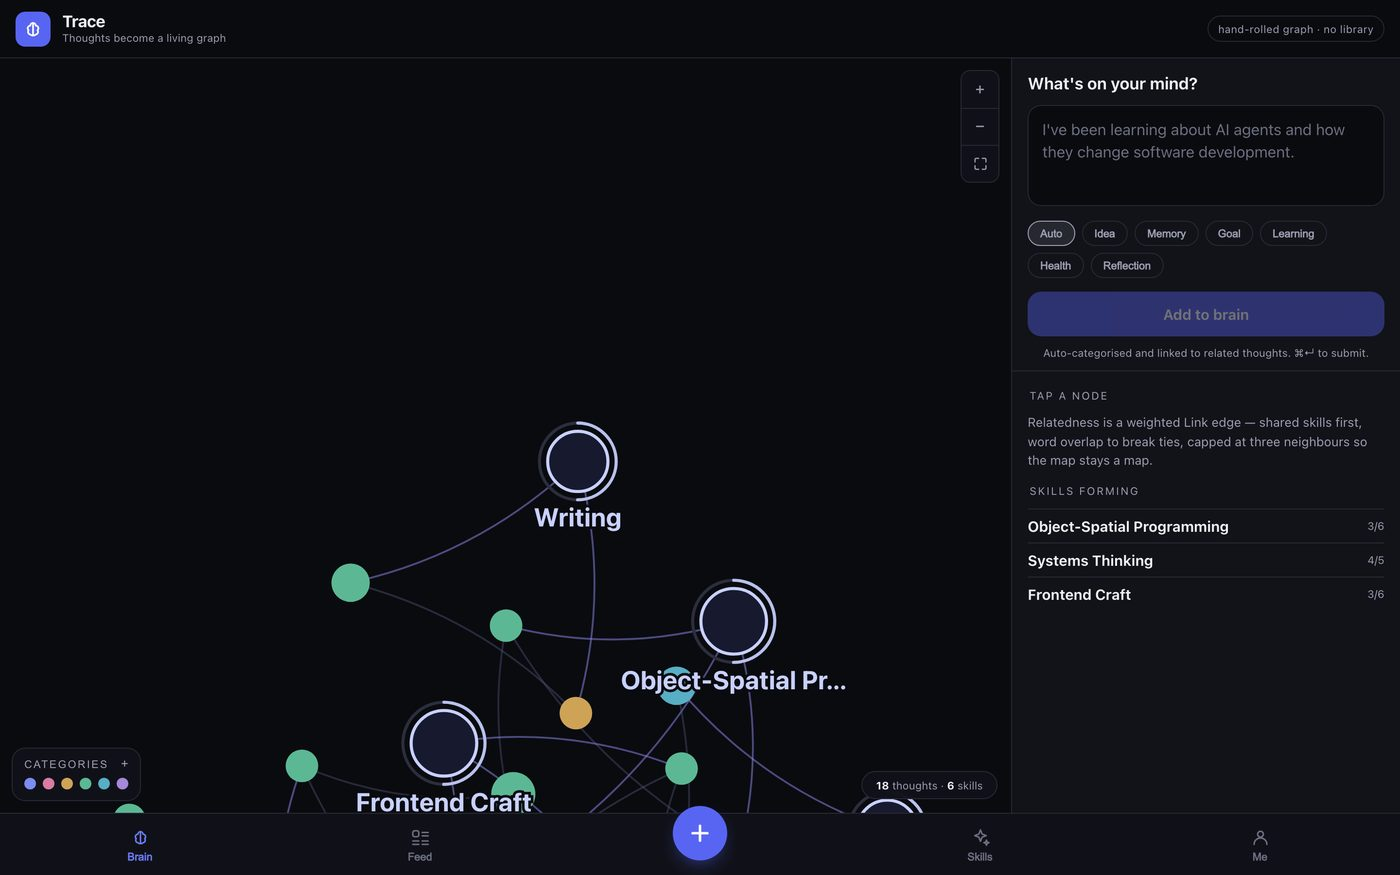
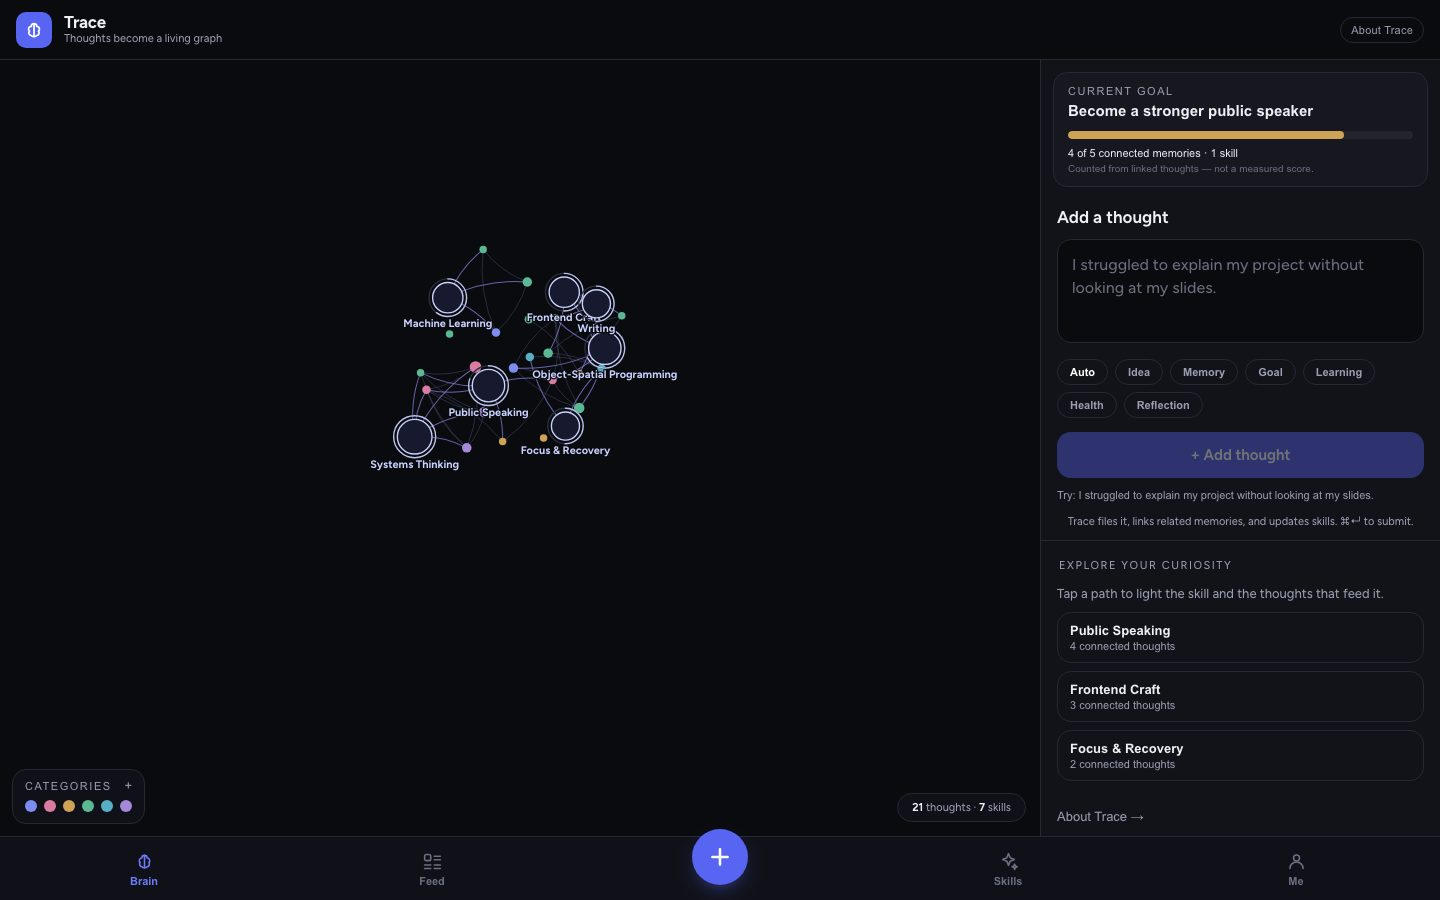
Fit the project screenshots to the cards.

diff --git a/index.html b/index.html
@@ -56,9 +56,9 @@
             <img
               class="shot shot-app"
               src="images/breakpoint.jpg"
-              alt="Breakpoint explorer with a list of past traces and a pipeline ready to run."
-              width="1400"
-              height="1199"
+              alt="Breakpoint live app, with the pipeline input and Run Pipeline button."
+              width="1440"
+              height="560"
             />
             <div class="card-body">
               <h3>Breakpoint</h3>
@@ -82,9 +82,9 @@
             <img
               class="shot shot-phone"
               src="images/bridge.jpg"
-              alt="Bridge language screen, with choices including English, Spanish, and Chinese."
-              width="821"
-              height="1742"
+              alt="Bridge language screen on the live app, with choices including English, Spanish, and Chinese."
+              width="1440"
+              height="900"
             />
             <div class="card-body">
               <h3>Bridge</h3>
@@ -109,9 +109,9 @@
             <img
               class="shot shot-wide"
               src="images/trace.jpg"
-              alt="Trace knowledge graph connecting thoughts such as Writing and Frontend Craft into skills."
-              width="1400"
-              height="875"
+              alt="Trace live app, with the knowledge graph beside the add-a-thought panel."
+              width="1440"
+              height="900"
             />
             <div class="card-body">
               <h3>Trace</h3>

diff --git a/styles.css b/styles.css
@@ -162,34 +162,18 @@ h2 {
   box-shadow: var(--shadow);
 }
 
-.shot {
-  width: 100%;
-  object-fit: contain;
-  object-position: center;
-  background: #101114;
-}
-
-.shot-app {
-  aspect-ratio: 16 / 9;
-  object-fit: cover;
-  object-position: left top;
-  background: #f3f7f4;
-}
-
-.shot-phone {
-  height: 520px;
-  width: auto;
-  max-width: 100%;
-  margin-inline: auto;
-  aspect-ratio: auto;
-  background: #140e24;
-}
-
+.shot,
+.shot-app,
+.shot-phone,
 .shot-wide {
-  aspect-ratio: 16 / 10;
+  width: 100%;
+  height: auto;
+  max-height: none;
+  margin: 0;
+  aspect-ratio: auto;
   object-fit: contain;
   object-position: center;
-  background: #07080d;
+  background: transparent;
 }
 
 .card-body {
@@ -295,9 +279,6 @@ h2 {
     align-items: center;
   }
 
-  .shot-phone {
-    height: 460px;
-  }
 }
 
 @media (max-width: 700px) {
